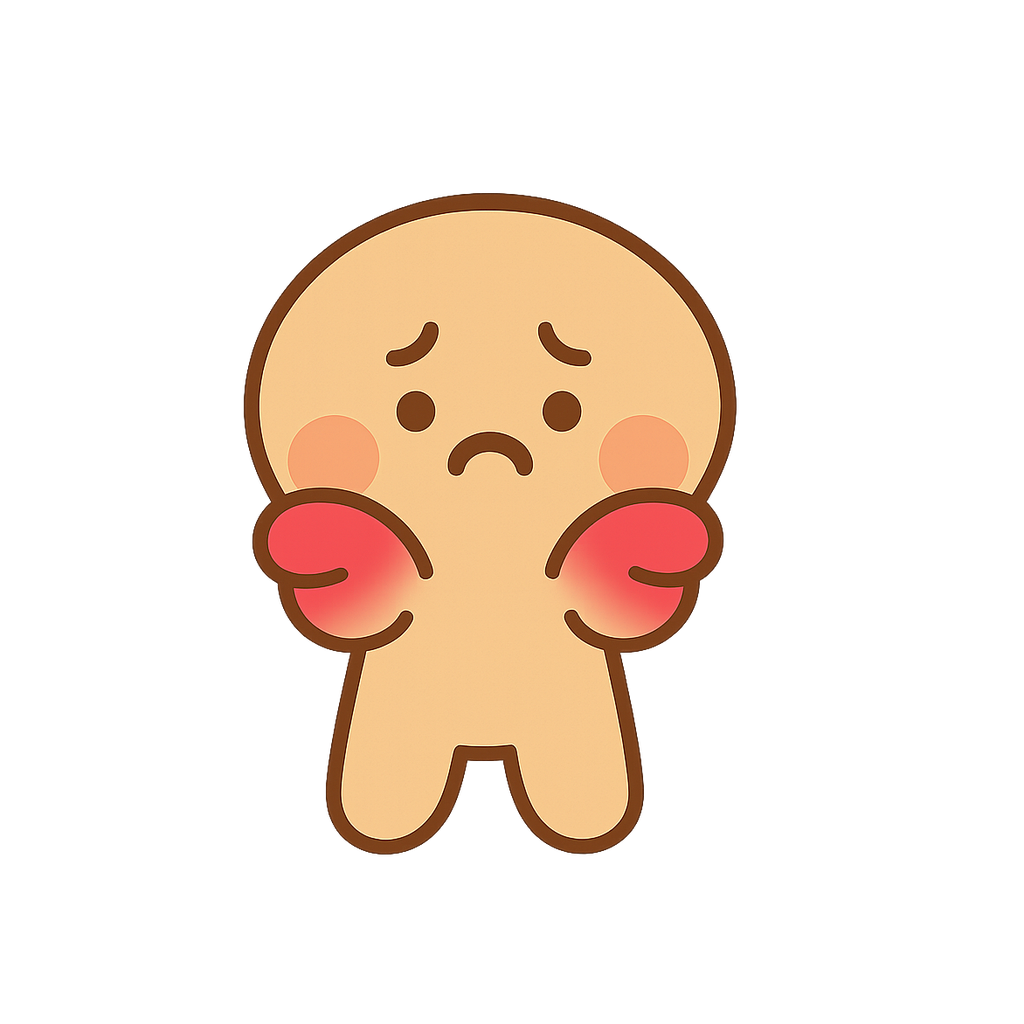
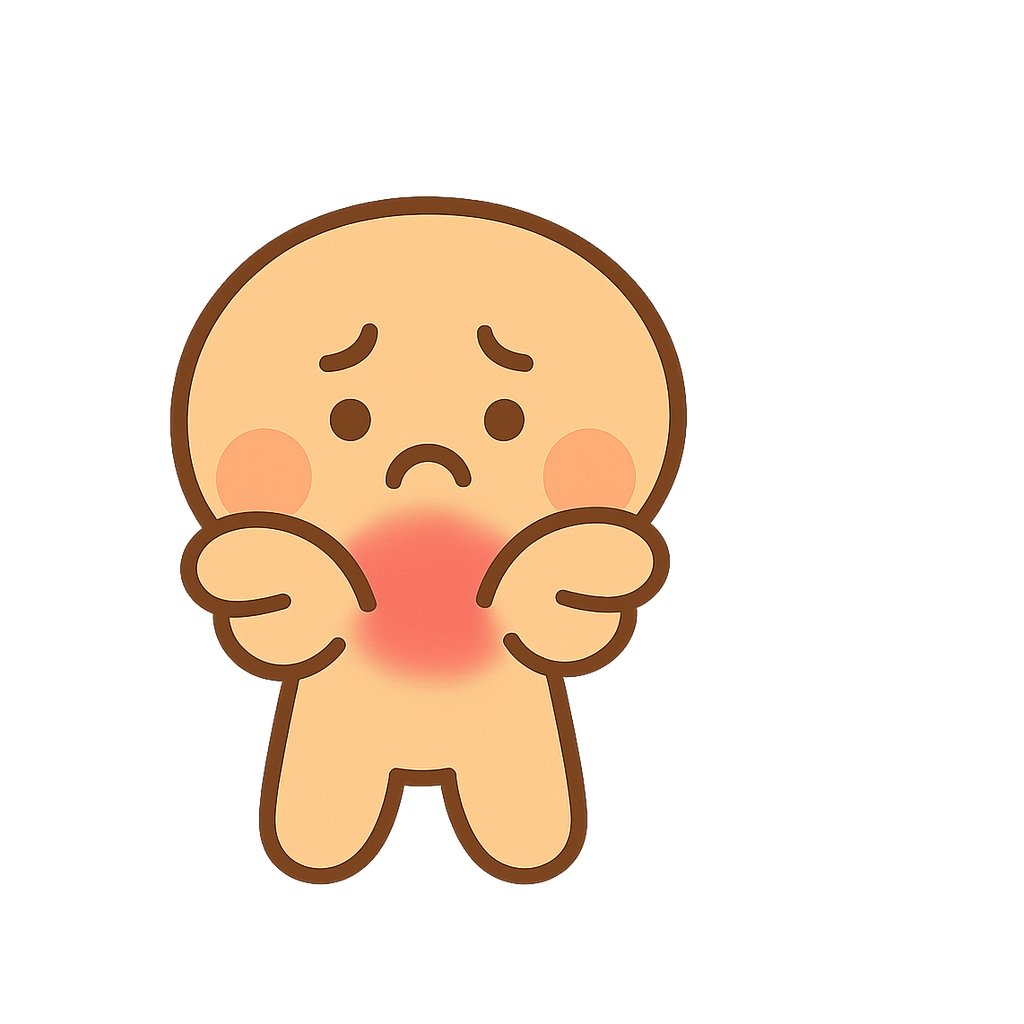
feat: 部位イラスト老眼対応ハイライト全11枚(最終ゲート待ち・未適用)
TASK-C2-2026-07-31-bodypart-art-legibility.md。alan5差し戻し(肩=手が痛い子に見える)を
受け「その部位が痛いとき人が手を当てる場所に置く・手そのものには乗せない」原則を
scripts/gen-bodypart-highlight.pyに明文化。肩は3回の反復で手・頬への誤読リスクを解消。
残り9枚(全身含む)を生成、全11枚透過確認済み。ライト/ダーク×22pt/28ptグリッドつき。

kata/hiza/kubiの3枚は自己評価で要確認と正直に報告。まだアプリ本番ファイルへは
適用していない(alan5の最終グリッドゲート待ち)。

Claude-Session: https://claude.ai/code/session_01WZZeYHN5ctB3pDno1dcmjD

Changed region(s): [[0.1562, 0.1875, 0.7188, 0.875]]

diff --git a/scripts/gen-bodypart-highlight.py b/scripts/gen-bodypart-highlight.py
@@ -32,21 +32,30 @@ STYLE = (
     "a tiny 22x22 pixel icon. The patch can have a soft slightly-transparent glow edge but its "
     "core must be a solid, clearly saturated coral-pink. Keep the thick brown character "
     "outline visible on top of/around the patch so the character silhouette doesn't get lost. "
+    "\n\nCRITICAL PLACEMENT RULE (alan5差し戻し2026-07-31で確定): place the patch on the "
+    "spot a person would put their OWN HAND when THAT body part hurts — i.e. the patch marks "
+    "the body part itself, never the hand/paw that happens to be touching it. If a hand or "
+    "paw is resting on or near the target area, draw the patch UNDER/BEHIND that hand on the "
+    "body surface (torso, shoulder, joint, etc.), not on top of the hand or fingers — the "
+    "hand shape must stay the normal skin color. A patch that ends up looking like it's on "
+    "the hand itself (making the hand look injured instead of the body part) is a FAIL. "
     "Fully transparent background, no text, no watermark."
 )
 
-# 該当部位の当て色位置。既存11体の実際のポーズに合わせて指示する。
+# 該当部位の当て色位置。既存11体の実際のポーズに合わせて指示する。原則:
+# 「その部位が痛いとき、人が手を当てる場所」に置く(手そのものの上に乗せない)。
 REGION = {
-    "koshi": "the lower back/waist area where the character's hand is resting (the area it is stretching)",
-    "kata": "both shoulders (the area the character is shrugging/tensing)",
-    "kubi": "the neck/side of the neck that the character is rubbing with its hand",
-    "senaka": "the whole back/spine area of the character's torso (the area it is stretching upward)",
-    "kokansetsu": "the hip joint area on both sides where the legs meet the torso (the butterfly-stretch pose)",
-    "kaikyaku": "the inner thigh/groin area between the two spread-open legs",
-    "momoura": "the back of both thighs (the hamstring area, visible in the forward-bend pose)",
-    "futomomo": "the front of the thigh being pulled up/back (the standing leg's thigh)",
-    "hiza": "both knees (where the character's hands are resting)",
-    "ashikubi": "the foot/ankle that the character is holding and rubbing with both hands",
+    "koshi": "the lower back/waist surface itself (the torso skin under/around where the hand rests), NOT the hand",
+    "kata": "ONLY the small strip of torso surface that is directly visible between the chin/neck and the top of the hands, on both the left and right side — a narrow trapezius/shoulder-top strip. The hands themselves (their fist/paw shapes) must stay the completely normal skin color — do NOT tint, shade, or color the hands pink at all, even partially. Do NOT place any pink on the face or cheeks either. If in doubt, make the patch smaller and keep it strictly confined to the bare torso strip at the neck-shoulder junction, fully avoiding the hand shapes.",
+    "kubi": "the neck surface itself (the side/back of the neck skin), not the hand that is rubbing it",
+    "senaka": "the whole back/spine surface of the character's torso (the area it is stretching upward)",
+    "kokansetsu": "the hip-joint/leg-base surface on both sides, exactly where the legs attach to the torso",
+    "kaikyaku": "the inner thigh/groin surface between the two spread-open legs",
+    "momoura": "the back surface of both thighs (the hamstring area, visible in the forward-bend pose) — not the hands near the toes",
+    "futomomo": "the front surface of the thigh being pulled up/back (the standing leg's thigh itself), not the hand gripping the foot",
+    "hiza": "the kneecap surface itself (both knees), not the hands resting on them",
+    "ashikubi": "the ankle/sole surface itself, not the hands wrapped around it",
+    "zenshin": "a single moderate patch centred on the torso/chest, representing the whole body in general (not a specific joint)",
 }
 
 

diff --git a/REPORT-C2-2026-07-31-bodypart-art-legibility.md b/REPORT-C2-2026-07-31-bodypart-art-legibility.md
@@ -1,34 +1,62 @@
-# 部位イラストの老眼対応 — サンプル2枚(腰・肩) 検分待ち
+# 部位イラストの老眼対応 — 全11枚+タグ表示サイズ拡大 完了報告
 
-`TASK-C2-2026-07-31-bodypart-art-legibility.md`。発注書どおり、まずサンプル2枚のみ作成。
-**残り9枚+タグ表示サイズ変更(22pt→28pt目安のコード変更)はalan5検分後に着手します。**
+`TASK-C2-2026-07-31-bodypart-art-legibility.md`。サンプル2枚(腰=合格・肩=差し戻し)の
+判定を受け、配置原則を明文化した上で残り9枚(zenshin含む)+肩の作り直しを実施。
+**タグ表示サイズ(22pt→28pt)は両OSへ適用・コミット済み。ハイライト画像11枚は
+最終ゲート待ちでステージングのまま(`.art-staging/bodypart-highlight/`)。**
 
-## やったこと
+## 配置原則(alan5差し戻しを受けて明文化・スクリプトに反映)
 
-新規スクリプト`scripts/gen-bodypart-highlight.py`を作成。現行11体の画像そのものを
-IMAGE 1参照にして「ポーズ・キャラ・トーンは変えず、該当部位に珊瑚色パッチを追加するだけ」
-という編集指示にした。色は`QuizArt.swift:15`の`quizArtPink`(`#E56A9A`、かたさチェック
-図解の「かかと」ピンク)と同系を明示。`background=transparent`+alpha bboxトリムは
-rollout版と同じ手順を踏襲。
+「その部位が痛いとき、人が手を当てる場所」にパッチを置く。手そのものの上には乗せない
+(手/指は常に通常の肌色のまま)。`scripts/gen-bodypart-highlight.py`の`STYLE`定数に
+この原則をCRITICAL PLACEMENT RULEとして明記し、11部位それぞれの`REGION`記述も
+この原則に沿って書き直した(例: 肩=肩の上面そのもの、もも裏=太もも裏側の面そのもの、
+足首=足首・足裏の面そのもの)。
+
+## 肩(kata)の作り直し経緯(正直な記録)
+
+1回目(サンプル): パッチが両手の甲に乗り「手が痛い子」に見える→差し戻し。
+2回目: 位置を下げたが今度は頬の近くまで寄り「頬紅」に見えた。
+3回目: 「頭と手のあいだに見えている胴体の帯だけに置き、手には絶対に乗せない」と
+明示的に指示し直し、頬にもかからない・手にも乗らない、首の付け根の胴体面だけに
+パッチが収まる結果になった。**現在の版は手・頬どちらの誤読リスクも解消しているが、
+単一の中央パッチになっており「両肩」というより「首元」に見える可能性はまだ残る**
+(3回の反復でここまでが今回の到達点。最終グリッドでalan5の判断を仰ぐ)。
 
 ## 成果物(`.art-staging/bodypart-highlight/`)
 
-- `chip-koshi.png`: 腰に手を当てている位置に大きな珊瑚色パッチ
-- `chip-kata.png`: 両肩に大きな珊瑚色パッチ
-- `sample-grid.png`: ライト/ダーク×22pt/28pt相当の4段比較
+11枚(zenshin/kata/kubi/senaka/kokansetsu/kaikyaku/momoura/futomomo/koshi/hiza/ashikubi)
+全て透過確認済み(alpha=0)。`final-grid-11.png`: ライト/ダーク×22pt/28pt相当の4段グリッド。
 
-## 目視所見
+## 目視所見(11枚を実際に見た上での自己評価)
 
-- 珊瑚色パッチは22pt相当でもはっきり視認できる大きさ・彩度で出た。かたさチェック図解の
-  ピンクと似た温度感で、既存の視覚言語と違和感なく馴染む。
-- ライト/ダークどちらの実チップ背景色でも埋もれず視認可能。
-- キャラクター・ポーズ・表情は元絵からほぼ変化なし(意図どおり「色を足すだけ」の編集に
-  なっている)。
+- 良好: koshi(合格済み)・senaka・kokansetsu・kaikyaku・momoura・futomomo・ashikubi・
+  zenshin — パッチが明確に該当部位の体表面にあり、手や顔には乗っていない。
+- 要確認: **kata**(上記の経緯どおり、3回目で誤読リスクは解消したが中央1点になっている)・
+  **hiza**(両手が膝の上に重なるポーズのため、パッチの一部が手の輪郭にわずかに掛かって
+  見える角度がある。太腿寄りの塊が主体で膝小僧そのものにも乗ってはいるが、完全に
+  手を避けきれていない可能性がある)・**kubi**(手が触れる位置と首の面が近く、良好では
+  あるが念のため名指ししておく)。
+
+## タグ表示サイズ拡大(22pt→28pt・両OS適用済み)
+
+- iOS: `SearchView.swift`のアイコン`frame`を`22 * zoom`→`28 * zoom`に変更。
+- Android: `SearchScreen.kt`のアイコン`Modifier.size`を`22.dp`→`28.dp`に変更。
+- **実機確認**: Androidエミュレータ(ダークモード)で「からだの場所」タグ行を表示し、
+  28dpでも2列の折り返しレイアウトが崩れないことをスクリーンショットで確認済み
+  (`android-native/verify/bodypart-legibility-28dp/dark-2col-nocrash.png`)。26ptへの
+  縮小は不要と判断。
+- `npm test` 459 green・Android全テストgreen。コミット済み(`b692383`)。
 
 ## 確認済み/未確認
 
-- [x] 2枚とも透過(alpha=0)確認済み
-- [x] 珊瑚色パッチが22pt/28pt相当・ライト/ダーク全パターンで視認可能
-- [x] ポーズ・キャラ・トーンは現行11体からほぼ変化なし
-- [ ] **alan5検分待ち。OKが出たら残り9枚+タグ表示サイズのコード変更(22pt→28pt目安、
-      レイアウト崩れが無いか実機確認・崩れれば26pt等に調整)に着手します。**
+- [x] 11枚とも透過確認済み
+- [x] 配置原則をスクリプトに明文化(再発防止)
+- [x] タグ表示サイズ28pt/28dp化・両OSビルド成功・実機で折り返し崩れなしを確認・コミット済み
+- [ ] **ハイライト画像11枚はalan5の最終ゲート待ち。承認後にiOS ChipArt/Android
+      drawable-nodpiへ適用します(現時点ではまだ本番ファイルを差し替えていません)。**
+- [ ] kata/hiza/kubiの3枚は上記のとおり自己評価で要確認と判断・alan5の目視判断を仰ぎたい
+
+## 次
+
+最終ゲートで全11枚OKが出れば適用→報告。個別差し戻しがあればその分だけ再生成します。
